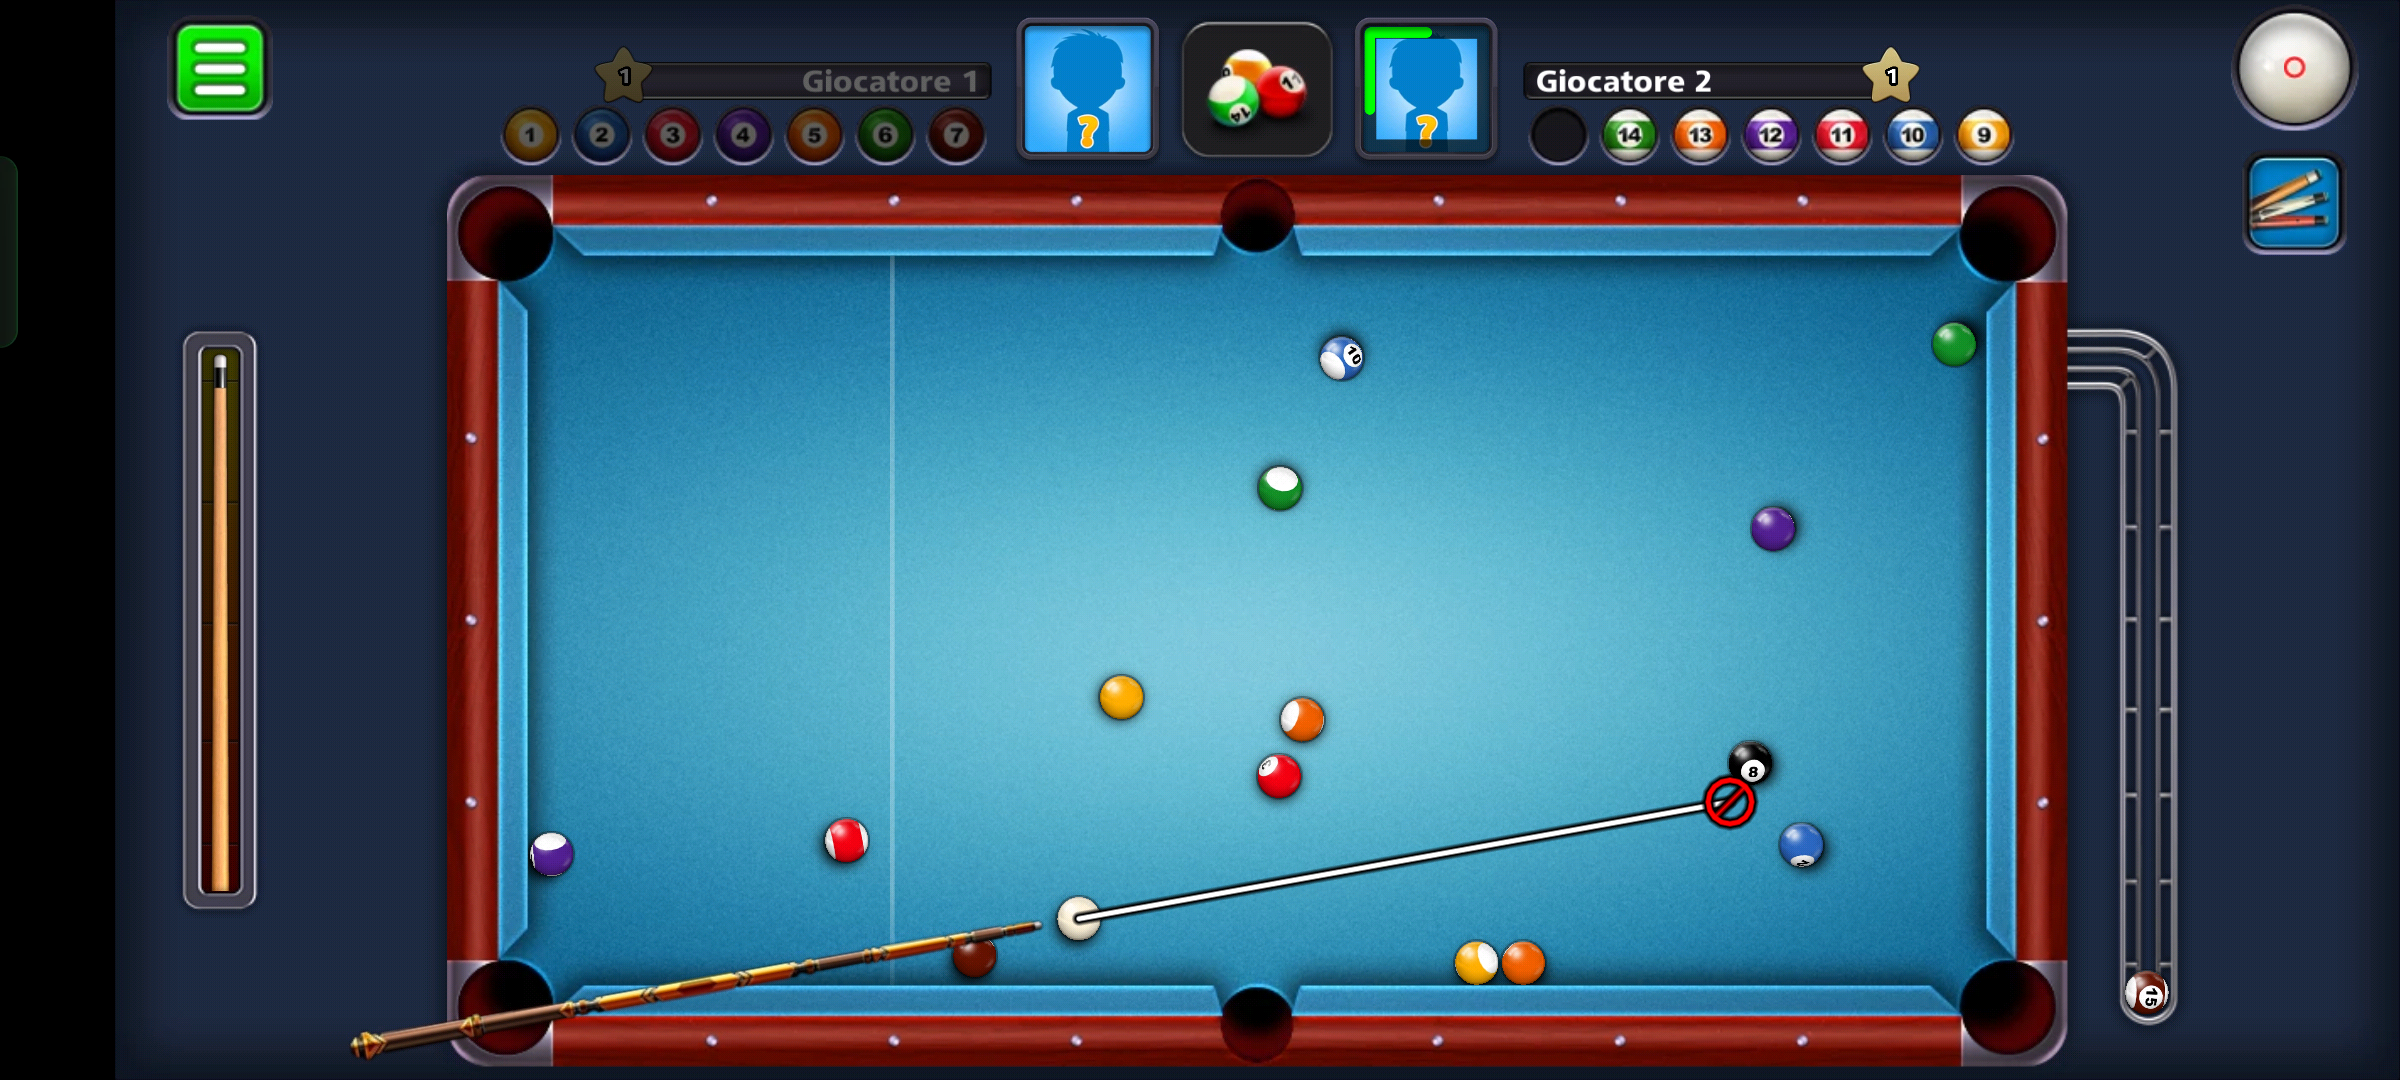
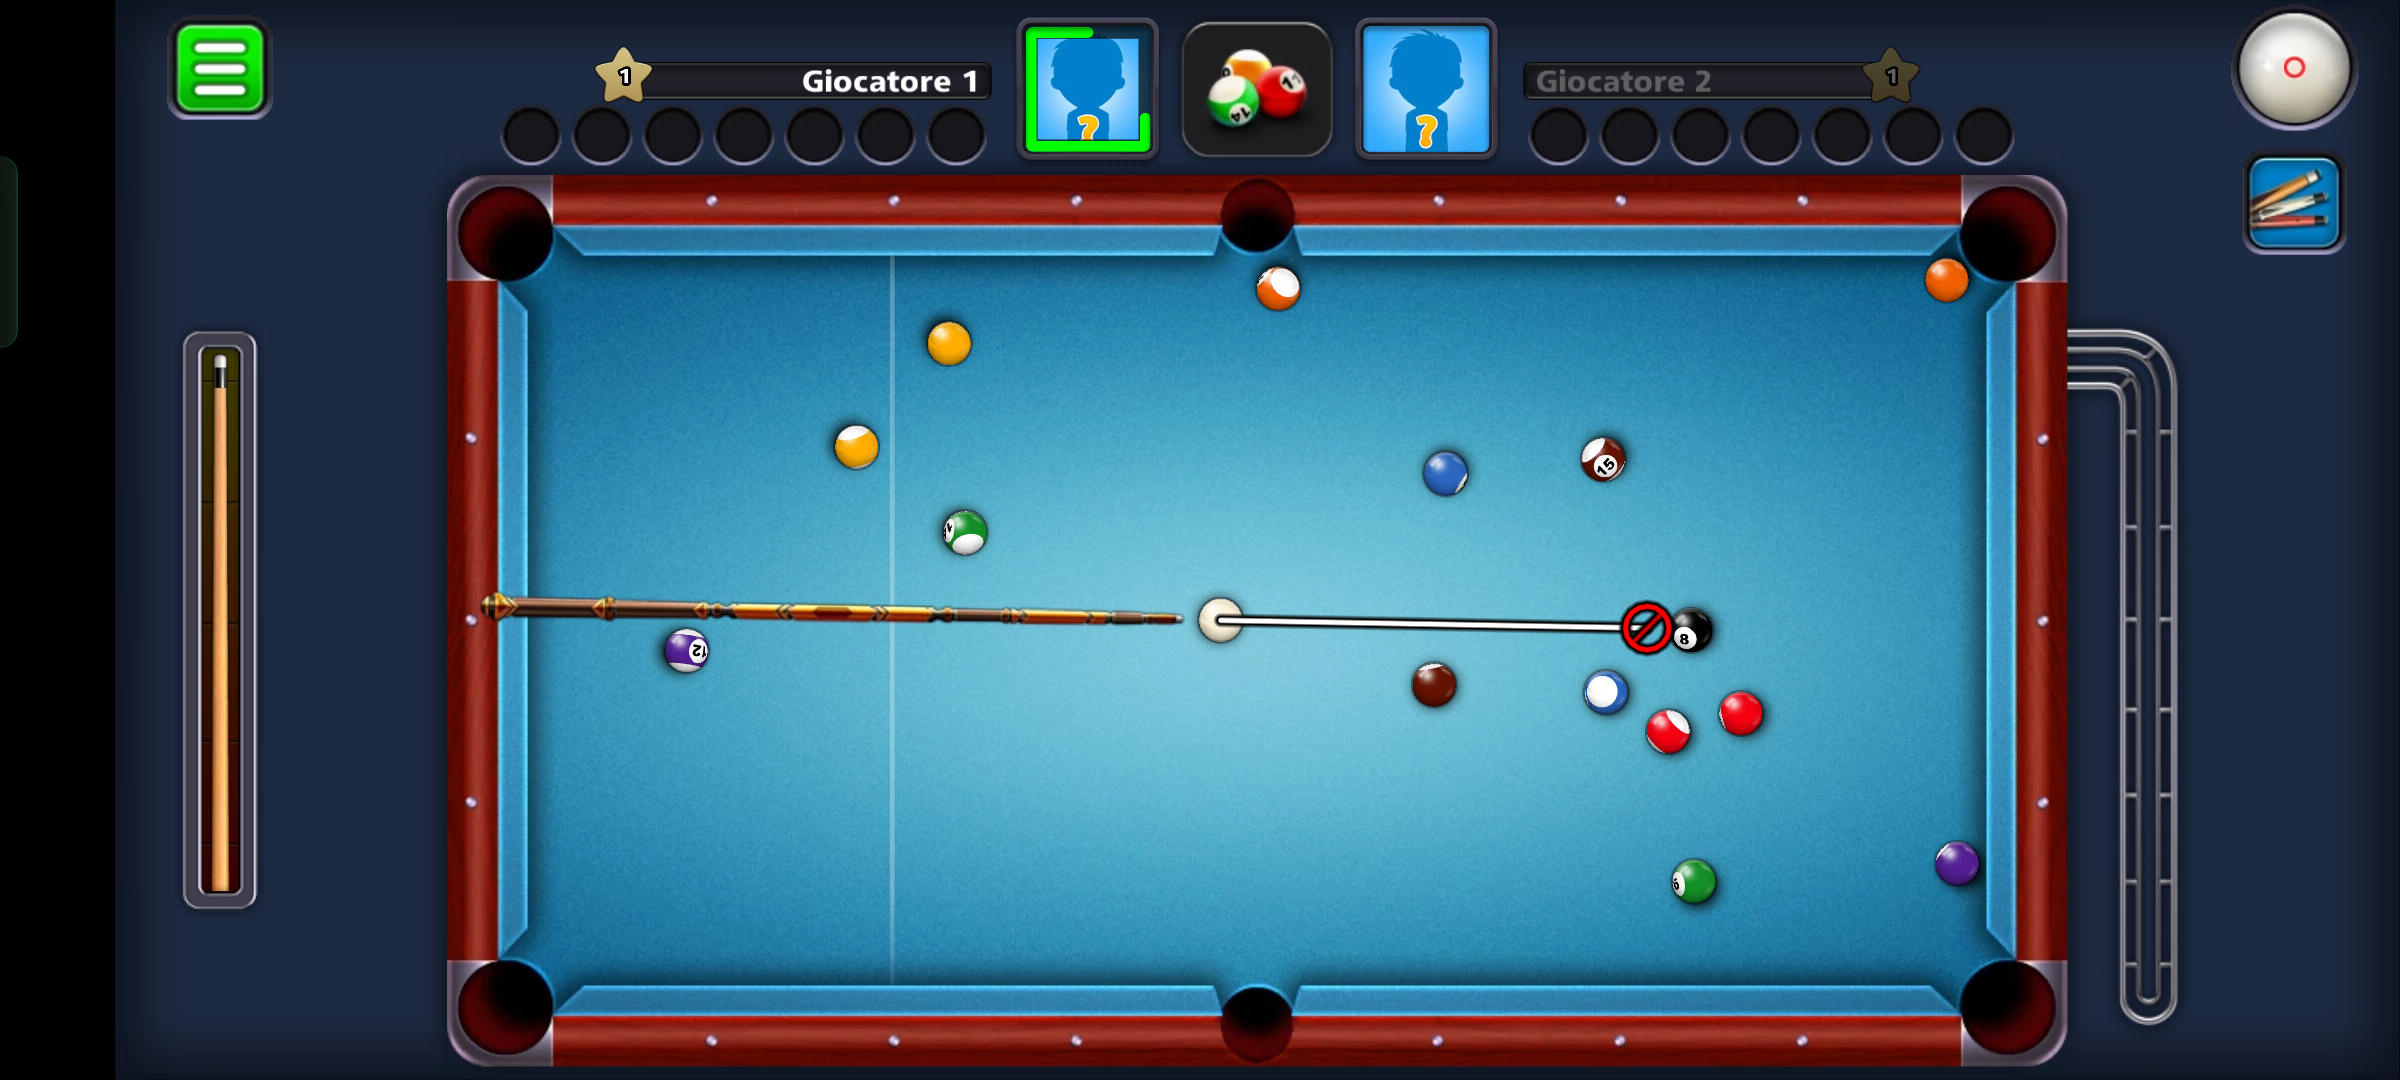
miglioramenti ...

diff --git a/Brain/AI/src/vision/objectsFinder.py b/Brain/AI/src/vision/objectsFinder.py
@@ -556,6 +556,104 @@ class ObjectsFinder:
                 filtered.append(obj)
         return filtered
     
+    def detect_illegal_ghost_ball(self, 
+                              search_info: Circle = None,
+                              area_threshold=50, 
+                              circularity_threshold=0.2,
+                              red_ratio_threshold=0.5):
+        """
+        Rileva la ghost ball (palla divieto) analizzando i contorni dell'immagine in self.image.
+        La funzione cerca contorni esterni neri che contengono contorni interni rossi.
+        
+        Parametri:
+        - search_info: oggetto con attributi:
+                * area: una tupla (x_min, y_min, x_max, y_max) che definisce l'area di interesse
+                * min_radius e max_radius per limitare il raggio accettabile.
+        - area_threshold: area minima del contorno da considerare.
+        - circularity_threshold: rapporto minimo (area contorno / area del cerchio racchiudente).
+        - red_ratio_threshold: soglia minima del rapporto di pixel rossi all'interno del contorno interno.
+        
+        Restituisce:
+        - Un candidato del tipo (int(x), int(y), int(radius), False) se viene rilevata una ghost ball valida,
+        - Altrimenti None.
+        """
+        
+        # Conversione in scala di grigi e applicazione di un filtro Gaussiano
+        gray = self.__gray.copy()
+        blurred = cv2.GaussianBlur(gray, (5, 5), 0)
+        
+        # Sogliatura automatica (Otsu) per ottenere un'immagine binaria
+        ret, thresh = cv2.threshold(blurred, 0, 255, cv2.THRESH_BINARY_INV)
+        
+        # Troviamo i contorni e la relativa gerarchia
+        contours, hierarchy = cv2.findContours(thresh.copy(), cv2.RETR_TREE, cv2.CHAIN_APPROX_SIMPLE)
+        if hierarchy is None:
+            return None
+        hierarchy = hierarchy[0]
+        
+        # Prepara una maschera HSV per rilevare il rosso
+        hsv = cv2.cvtColor(self.get_image(), cv2.COLOR_BGR2HSV)
+        mask_red1 = cv2.inRange(hsv, np.array([0, 70, 50]), np.array([10, 255, 255]))
+        mask_red2 = cv2.inRange(hsv, np.array([170, 70, 50]), np.array([180, 255, 255]))
+        mask_red = cv2.bitwise_or(mask_red1, mask_red2)
+        
+        # Soglia per considerare un colore come nero (in ciascun canale)
+        black_threshold = 50
+        
+        candidate = None
+        for i, cnt in enumerate(contours):
+            (x, y), radius = cv2.minEnclosingCircle(cnt)
+            area_outer = cv2.contourArea(cnt)
+            print(f"x {x}, y {y}, r {radius}")
+            # Filtraggio per area e raggio se search_info è fornito
+            if search_info is not None:
+                x_min, y_min, x_max, y_max = search_info.area
+                if not (x_min <= x <= x_max and y_min <= y <= y_max):
+                    continue
+                if not (search_info.min_radius <= radius <= search_info.max_radius):
+                    continue
+            
+            # Verifica che il contorno sia esterno (senza genitore) E che abbia almeno un figlio
+            if hierarchy[i][3] != -1 or hierarchy[i][2] == -1:
+                continue
+            
+            # Filtraggio per area minima
+            if area_outer < area_threshold:
+                continue
+            
+            # Verifica della forma circolare: rapporto area_contorno / area del cerchio racchiudente
+            if radius <= 0:
+                continue
+            circle_area = np.pi * (radius ** 2)
+            circ_ratio = area_outer / circle_area
+            if circ_ratio < circularity_threshold:
+                continue
+            
+            # Verifica che il contorno esterno sia nero:
+            # Creiamo una maschera per disegnare il bordo del contorno (con thickness = 2)
+            ext_mask = np.zeros(gray.shape, dtype=np.uint8)
+            cv2.drawContours(ext_mask, [cnt], -1, 255, thickness=2)
+            mean_color = cv2.mean(self.get_image(), mask=ext_mask)  # Restituisce (B, G, R, α)
+            if max(mean_color[:3]) > black_threshold:
+                continue
+            
+            # Verifica che il contorno interno (primo figlio) sia rosso:
+            child_idx = hierarchy[i][2]
+            child_cnt = contours[child_idx]
+            child_mask = np.zeros(gray.shape, dtype=np.uint8)
+            cv2.drawContours(child_mask, [child_cnt], -1, 255, thickness=-1)
+            total_child_pixels = cv2.countNonZero(child_mask)
+            if total_child_pixels == 0:
+                continue
+            red_pixels = cv2.countNonZero(cv2.bitwise_and(mask_red, child_mask))
+            red_ratio = red_pixels / total_child_pixels
+            if red_ratio < red_ratio_threshold:
+                continue
+            
+            candidate = (int(x), int(y), int(radius), False)
+            return candidate
+        
+        return None
 
 
     def detect_ghost_ball(self, 
@@ -614,13 +712,11 @@ class ObjectsFinder:
                     continue
 
                 # Verifichiamo che sia un contorno esterno (padre = -1) che ha un figlio
-            if hierarchy[i][3] == -1:  # Se ha un genitore, non è un contorno esterno
-                #print("Non ha genitore")
-                continue
-
-            # Se il contorno non ha un "figlio", non consideriamo questo contorno come candidato
-            if hierarchy[i][2] == -1:
-                #print("Non ha figlio")
+            if hierarchy[i][3] == -1 and hierarchy[i][2] == -1 :  # Se ha un genitore, non è un contorno esterno
+                """if hierarchy[i][2] == -1:
+                    print("Scartata per figlio")
+                if hierarchy[i][3] == -1:
+                    print("Scartata per padre")"""
                 continue
             
             # Filtraggio per area minima
@@ -665,18 +761,24 @@ class ObjectsFinder:
             # MODIFICATO: Controlliamo che il bordo sia sufficientemente CHIARO ed l'interno sufficientemente chiaro
             #print(f"Mean border: {mean_border}/ {border_intensity_threshold}, Mean inner: {mean_inner} / {inner_intensity_threshold}")
             diff = mean_inner - mean_border
-            if mean_border > border_intensity_threshold or mean_inner < inner_intensity_threshold: #25
-                #print("Scartata per mean_border")
-                #print("----------------------------")
-                if diff < 28:
+            if mean_border > border_intensity_threshold: #or mean_inner < inner_intensity_threshold: #25
+                if diff < 90:
                     #print("Scartata per differenza")
                     #print("----------------------------")
                     continue
             
             if diff > max_diff:
+                print(f"Diff {diff} max diff {max_diff}")
                 max_diff = diff
-                candidate = (int(x), int(y), int(radius))
+                candidate = (int(x), int(y), int(radius), True)
+                print(f"Mean border: {mean_border}/ {border_intensity_threshold}, Mean inner: {mean_inner} / {inner_intensity_threshold}")
+                
+            else:
+                """"print("Scartata per diff")
+                print("Max diff: ", max_diff)"""
+            #print("----------------------------")
             
+        
         return candidate
 
     def detect_square_boxes(self) -> list:

diff --git a/Brain/AI/src/ball_pool/detect/new_detect.py b/Brain/AI/src/ball_pool/detect/new_detect.py
@@ -1,6 +1,7 @@
 import os
 
 import re
+from string import Template
 import cv2
 import numpy as np
 import math
@@ -9,7 +10,7 @@ import sys
 from AI.src.ball_pool.constants import SPRITE_PATH,SRC_PATH
 from AI.src.abstraction.helpers import getImg
 from AI.src.constants import SCREENSHOT_PATH
-from AI.src.vision.input_game_object import Circle, Container, Rectangle
+from AI.src.vision.input_game_object import Circle, Container, Rectangle, TemplateMatch
 from AI.src.vision.objectsFinder import ObjectsFinder
 from AI.src.abstraction.abstraction import Abstraction
 from AI.src.abstraction.stack import Stack
@@ -138,13 +139,31 @@ class MatchingBallPool:
                    (pool_x_min,pool_y_min,pool_x_max,pool_y_max)
                    )
         )
+        if ghost_ball == None:
+            print("Ghost ball not found")
+            ghost_ball = self.finder._template_matching(
+               TemplateMatch(
+                     {
+                        "red_ghost_ball": getImg(os.path.join(SPRITE_PATH, "red_ghost_ball.png"), gray=True)
+                     },
+                     {
+                        "red_ghost_ball": 0.4
+                     },
+                     find_all=True,
+                     grayscale=True
+               )
+
+            )
+            for gb in ghost_ball:
+                print(f"x {gb.x} y {gb.y} labels {gb.label} confidance {gb.confidence}")
+            
         
         aim_line = None
-        if ghost_ball != None:
-            self.gx, self.gy, self.gr = ghost_ball #ghost_ball_center=(tx, ty, tr)
-        else:
-            ghost_ball = (400, 400, 0)
-            self.gx, self.gy, self.gr = ghost_ball
+        """if ghost_ball != None:
+            self.gx, self.gy, self.gr, self.isWhite = ghost_ball #ghost_ball_center=(tx, ty, tr)"""
+        #else:
+        ghost_ball = (400, 400, 0, False)
+        self.gx, self.gy, self.gr, self.isWhite = ghost_ball
 
         #pocket_circles = self.find_pocket_pool_houghCircles(area=(x,y,w,h))
         pocket_circles = self.finder._find_pockets_pool_contour(
@@ -301,6 +320,7 @@ class MatchingBallPool:
         ghost_ball.set_x(self.gx)
         ghost_ball.set_y(self.gy)
         ghost_ball.set_r(self.gr)
+        ghost_ball.set_ghost_type("GHOST" if self.isWhite else "RED GHOST")
 
         aim_line, aimed_ball = self.finder.compute_target_direction(
                                                     all_balls=final_balls,
@@ -323,8 +343,9 @@ class MatchingBallPool:
 
         self.__balls = result["balls"]
         self.__pockets = result["pockets"]
+        self.__ghost_balls = result["ghost_ball"]
 
-        """if not self.validation is None and self.debug:
+        if not self.validation is None and self.debug:
             self.show_result()  # Nessun parametro"""
 
         # Se non vengono rilevate pocket, definisci alcune pocket di default (per test)
@@ -421,15 +442,15 @@ class MatchingBallPool:
                         cv2.FONT_HERSHEY_SIMPLEX, 1, (255, 0, 0), 2)
 
 
-        x, y, r = self.__ghost_balls
-
-        cv2.circle(img_copy, (x, y), r, (60,20,220), 4)
+        x, y, r, type = self.__ghost_balls.get_x(), self.__ghost_balls.get_y(), self.__ghost_balls.get_r(), self.__ghost_balls.get_ghost_type()
+        
+        cv2.circle(img_copy, (x, y), r, (60,20,220) if type == "GHOST"  else (255,255,255), 4)
         cv2.circle(img_copy, (x, y), 6, (0, 0, 0), 1)
         # Testo con bordo nero e testo verde
         cv2.putText(img_copy, f"({x}, {y}) {r}", (x - 200, y -50),
                     cv2.FONT_HERSHEY_SIMPLEX, 1, (0, 0, 0), 4)
         cv2.putText(img_copy, f"({x}, {y}) {r}", (x - 200, y - 50 ),
-                    cv2.FONT_HERSHEY_SIMPLEX, 1, (60,20,220), 2)
+                    cv2.FONT_HERSHEY_SIMPLEX, 1, (60,20,220) if type == "GHOST"  else (255,255,255), 2)
         
         #purple bgr 
         x_above, y_above, x_below, y_below = self.STICK_COORDS

diff --git a/Brain/AI/src/ball_pool/dlvsolution/helpers.py b/Brain/AI/src/ball_pool/dlvsolution/helpers.py
@@ -257,6 +257,15 @@ class Ball(Predicate):
 
     def get_type(self) -> str:
         return self.__color.get_ball_type()
+    
+    def set_type(self, ball_type):
+        self.__color.set_ball_type(ball_type)
+
+    def set_ghost_type(self, ghost_type):
+        self.__ghost_type = ghost_type
+    
+    def get_ghost_type(self):
+        return self.__ghost_type
 
     def set_aimed(self, aimed):
         self.__aimed = aimed
